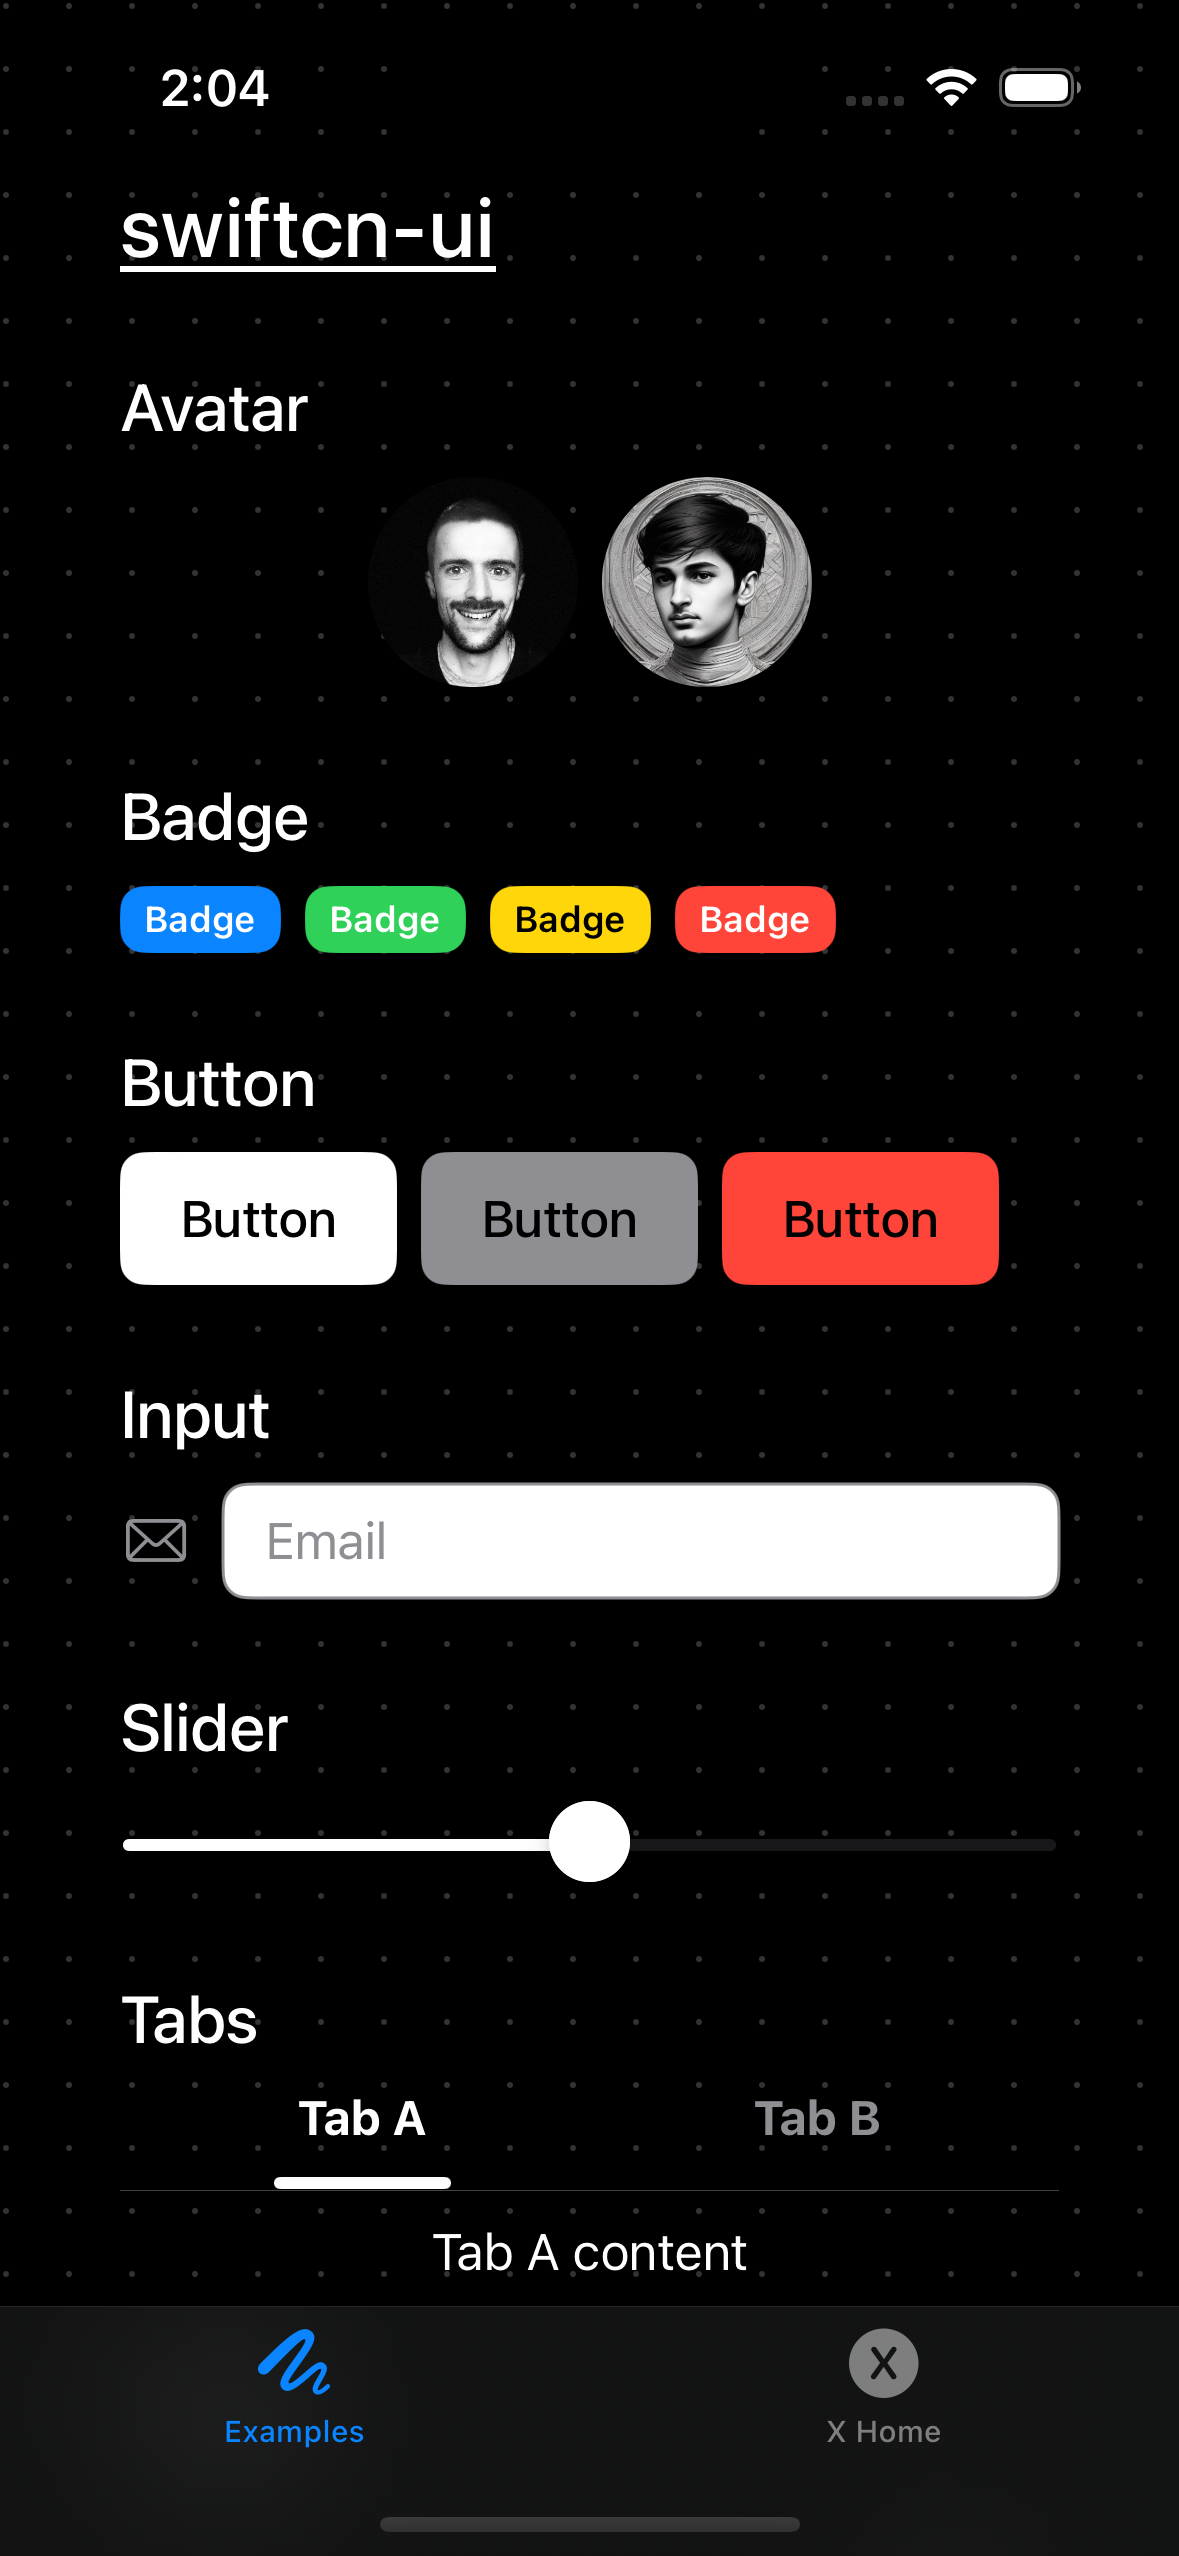
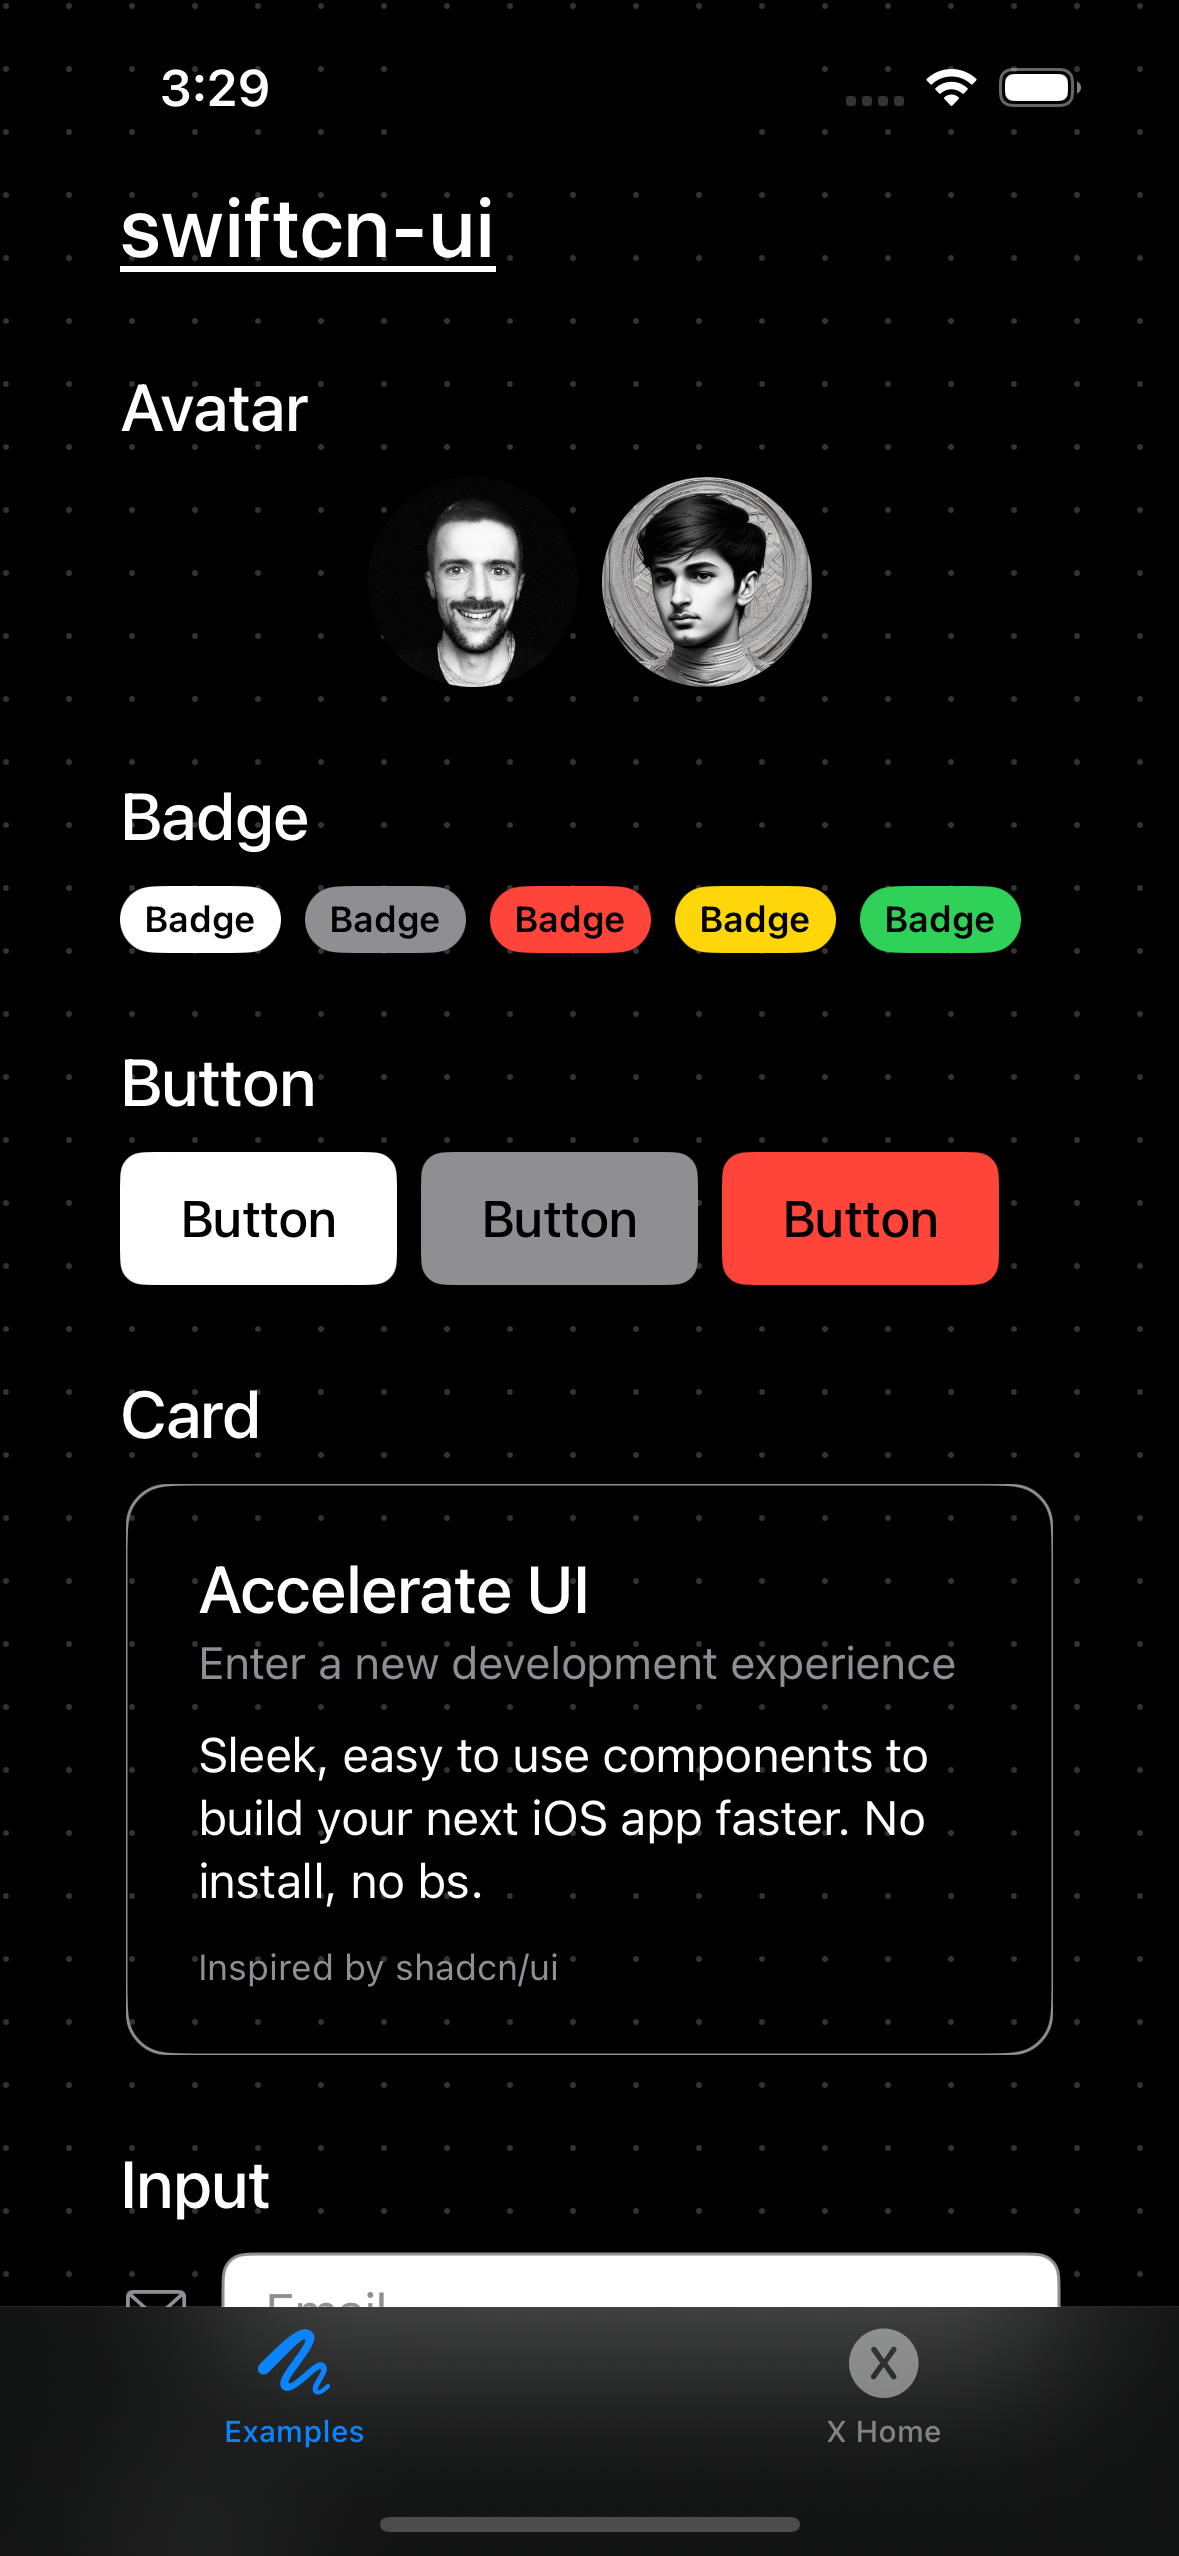
feat: add card + other good stuff

diff --git a/Swiftcn Playground.swiftpm/ContentView.swift b/Swiftcn Playground.swiftpm/ContentView.swift
@@ -26,7 +26,6 @@ struct ContentView: View {
                     VStack(alignment: .leading, spacing: 30) {
                         VStack(alignment: .leading, spacing: 10) {
                             Text("Avatar").font(.title2).fontWeight(.medium)
-                            
                             HStack {
                                 Spacer()
                                 CustomAvatar(
@@ -44,23 +43,20 @@ struct ContentView: View {
                                 Spacer()
                             }
                         }
-                        
+
                         VStack(alignment: .leading, spacing: 10) {
-                            Text("Badge")
-                                .font(.title2).fontWeight(.medium)
-                            
+                            Text("Badge").font(.title2).fontWeight(.medium)
                             HStack {
                                 CustomBadge(label: "Badge")
-                                CustomBadge(label: "Badge", backgroundColor: .green)
-                                CustomBadge(label: "Badge", backgroundColor: .yellow, foregroundColor: .black)
+                                CustomBadge(label: "Badge", backgroundColor: .gray)
                                 CustomBadge(label: "Badge", backgroundColor: .red)
+                                CustomBadge(label: "Badge", backgroundColor: .yellow)
+                                CustomBadge(label: "Badge", backgroundColor: .green)
                             }
                         }
-                        
+
                         VStack(alignment: .leading, spacing: 10) {
-                            Text("Button")
-                                .font(.title2).fontWeight(.medium)
-                            
+                            Text("Button").font(.title2).fontWeight(.medium)
                             HStack {
                                 CustomButton(
                                     action: { print("Button tapped!") },
@@ -80,8 +76,17 @@ struct ContentView: View {
                         }
 
                         VStack(alignment: .leading, spacing: 10) {
+                            Text("Card").font(.title2).fontWeight(.medium)
+                            CustomCard(
+                                title: "Accelerate UI",
+                                description: "Enter a new development experience",
+                                content: "Sleek, easy to use components to build your next iOS app faster. No install, no bs.",
+                                footer: "Inspired by shadcn/ui"
+                            )
+                        }
+
+                        VStack(alignment: .leading, spacing: 10) {
                             Text("Input").font(.title2).fontWeight(.medium)
-                            
                             CustomInput(
                                 text: $inputText, iconName: "envelope", placeholder: "Email"
                             )
@@ -89,13 +94,11 @@ struct ContentView: View {
 
                         VStack(alignment: .leading, spacing: 10) {
                             Text("Slider").font(.title2).fontWeight(.medium)
-
                             CustomSlider()
                         }
                         
                         VStack(alignment: .leading, spacing: 10) {
                             Text("Tabs").font(.title2).fontWeight(.medium)
-                            
                             CustomTabs(
                                 selectedTab: $selectedTab,
                                 tabs: tabs,
@@ -104,9 +107,7 @@ struct ContentView: View {
                         }
                         
                         VStack(alignment: .leading, spacing: 10) {
-                            Text("Toggle")
-                                .font(.title2).fontWeight(.medium)
-
+                            Text("Toggle").font(.title2).fontWeight(.medium)
                             CustomToggle(label: "Toggle me")
                         }
                     }

diff --git a/Swiftcn Playground.swiftpm/Components/CustomCard.swift b/Swiftcn Playground.swiftpm/Components/CustomCard.swift
@@ -1,0 +1,68 @@
+import SwiftUI
+
+struct CustomCard: View {
+    var title: String?
+    var description: String?
+    var content: String?
+    var footer: String?
+    var backgroundColor: Color?
+    var titleColor: Color?
+    var descriptionColor: Color?
+    var contentColor: Color?
+    var footerColor: Color?
+
+    var body: some View {
+        ZStack {
+            VStack(spacing: 12) {
+                VStack {
+                    if let title = title {
+                        Text(title)
+                            .font(.title2)
+                            .fontWeight(.medium)
+                            .foregroundStyle(titleColor ?? .primary)
+                            .frame(maxWidth: .infinity, alignment: .leading)
+                    }
+                    
+                    if let description = description {
+                        Text(description)
+                            .font(.subheadline)
+                            .foregroundStyle(descriptionColor ?? .gray)
+                            .frame(maxWidth: .infinity, alignment: .leading)
+                    }
+                }
+
+                if let content = content {
+                    Text(content)
+                        .font(.callout)
+                        .foregroundStyle(contentColor ?? .primary)
+                        .frame(maxWidth: .infinity, alignment: .leading)
+                }
+                
+                if let footer = footer {
+                    Text(footer)
+                        .font(.caption)
+                        .foregroundStyle(footerColor ?? .gray)
+                        .frame(maxWidth: .infinity, alignment: .leading)
+                }
+            }
+                .padding(.horizontal, 24)
+                .padding(.vertical, 22)
+        }
+            .background(backgroundColor ?? .clear)
+            .background(RoundedRectangle(cornerRadius: 15).stroke(Color.gray))
+            .cornerRadius(10)
+            .frame(maxWidth: .infinity)
+            .padding(.horizontal, 2)
+    }
+}
+
+struct CustomCard_Previews: PreviewProvider {
+    static var previews: some View {
+        CustomCard(
+            title: "Card title",
+            description: "Card description",
+            content: "Card content",
+            footer: "Card footer"
+        )
+    }
+}

diff --git a/Swiftcn Playground.swiftpm/Components/CustomBadge.swift b/Swiftcn Playground.swiftpm/Components/CustomBadge.swift
@@ -1,6 +1,8 @@
 import SwiftUI
 
 struct CustomBadge: View {
+    @Environment(\.colorScheme) var colorScheme
+    
     var label: String
     var backgroundColor: Color?
     var foregroundColor: Color?
@@ -11,9 +13,9 @@ struct CustomBadge: View {
             .fontWeight(.semibold)
             .padding(.vertical, 4)
             .padding(.horizontal, 8)
-            .background(backgroundColor ?? .blue)
-            .foregroundColor(foregroundColor ?? .white)
-            .cornerRadius(8)
+            .background(backgroundColor ?? .primary)
+            .foregroundColor(foregroundColor ?? (colorScheme == .dark ? .black : .white))
+            .cornerRadius(30)
     }
 }
 

diff --git a/Swiftcn Playground.swiftpm/Components/CustomAvatar.swift b/Swiftcn Playground.swiftpm/Components/CustomAvatar.swift
@@ -1,6 +1,8 @@
 import SwiftUI
 
 struct CustomAvatar: View {
+    @Environment(\.colorScheme) var colorScheme
+
     let imageURL: String
     let fallbackText: String
     let fallbackBgColor: Color
@@ -52,6 +54,10 @@ struct CustomAvatar: View {
                     .foregroundColor(fallbackFgColor)
                     .minimumScaleFactor(0.5) // Allows the text to scale down if needed
                     .padding()
+            )
+            .overlay(
+                Circle()
+                    .stroke(colorScheme == .dark ? .white : .black, lineWidth: 2)
             )
     }
 }

diff --git a/Swiftcn Playground.swiftpm/Components/CustomButton.swift b/Swiftcn Playground.swiftpm/Components/CustomButton.swift
@@ -17,7 +17,7 @@ struct CustomButton: View {
         }
         .padding(.horizontal, 20)
         .padding(.vertical, 12)
-        .background(backgroundColor ?? (colorScheme == .dark ? .white : .black))
+        .background(backgroundColor ?? .primary)
         .foregroundColor(foregroundColor ?? (colorScheme == .dark ? .black : .white))
         .cornerRadius(8)
     }

diff --git a/README.md b/README.md
@@ -27,11 +27,15 @@ You can also run the playground locally:
 - [x] Avatar
 - [x] Badge
 - [x] Button
+- [x] Card
 - [x] Input
 - [x] Slider
 - [x] Tabs
-- [ ] Card (WIP)
+- [x] Toggle
 - [ ] Calendar (WIP)
+- [ ] Progress (WIP)
+- [ ] Skeleton (WIP)
+- [ ] Textarea (WIP)
 
 ## Examples
 
